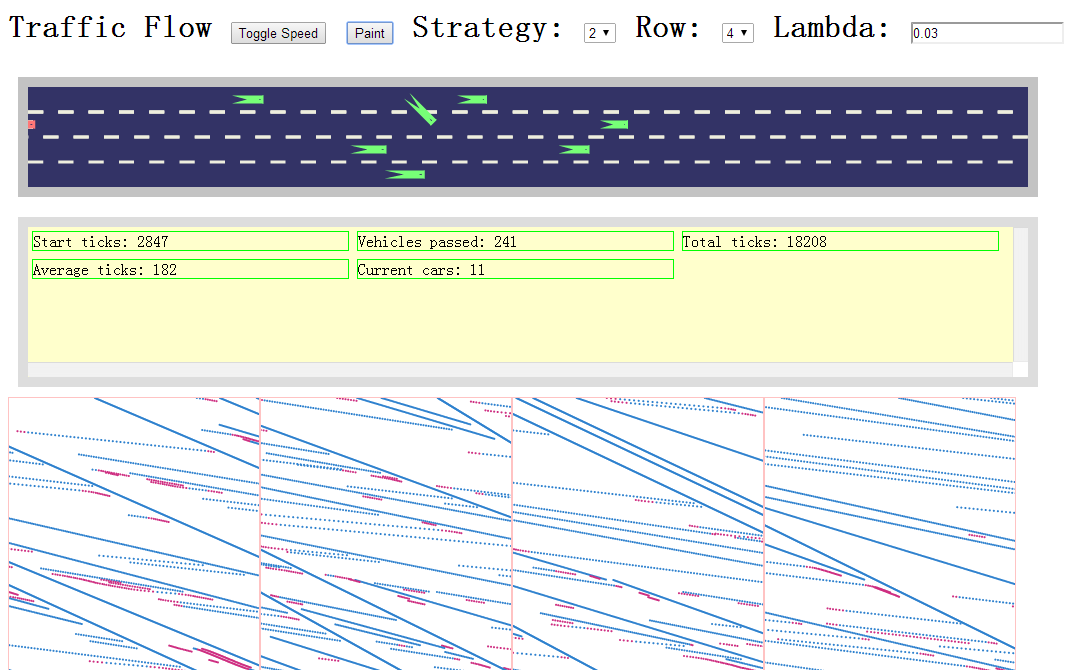
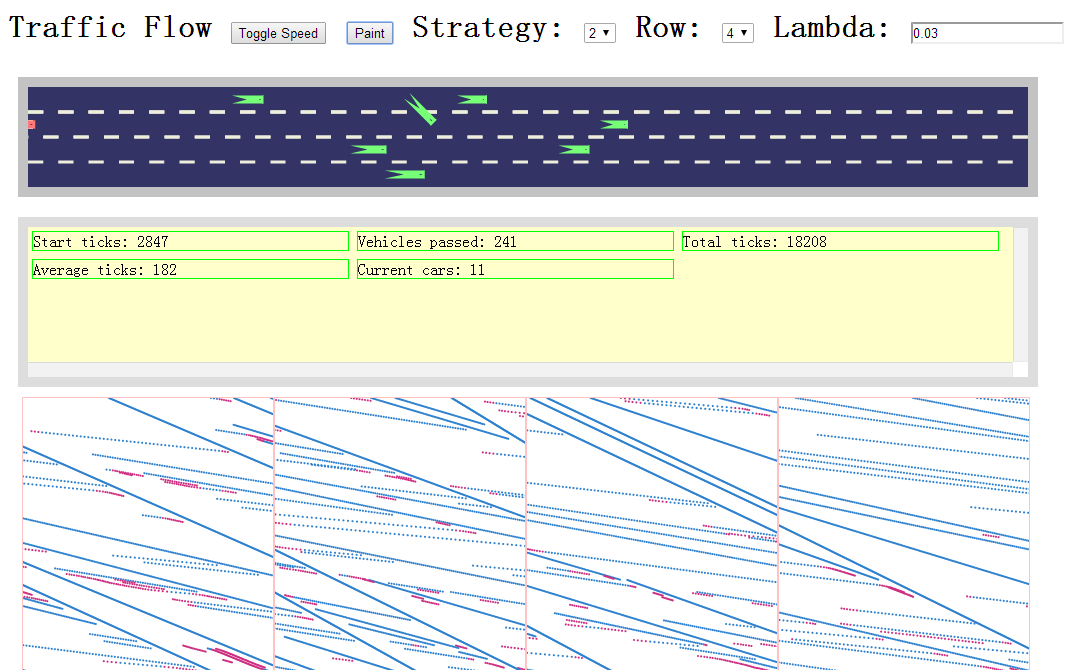
Assumption, pic location fixed, and ident

Changed region(s): [[0.0, 0.597, 0.942, 1.0]]

diff --git a/CODE/tf/strategy.js b/CODE/tf/strategy.js
@@ -70,7 +70,6 @@ function safe(a, b) {
 }
 
 function strategyNon(car, carList){
-    car.x += car.speed;
     car.speed = Math.min(car.maxSpeed, car.speed + car.maxSpeed / accelerateRatio);
 }
 
@@ -213,18 +212,18 @@ function strategyC(car, carList) {
 }
 
 function strategyD(car, carList) {
-	 var aheadtime = 120000000;
-   var backtime = 120000000;
-   if(car.x <= car.len * 1.3 + car.maxSpeed * backWarningRatio)
-   {
+    var aheadtime = 120000000;
+    var backtime = 120000000;
+    if(car.x <= car.len * 1.3 + car.maxSpeed * backWarningRatio)
+    {
 	car.speed = Math.min(car.maxSpeed, car.speed + car.maxSpeed / accelerateRatio);
 	return ;
-   }
-   
-	var flag;
-	var _flag;
-   if(car.row == 0 && car.offset == 0)
-   {
+    }
+    
+    var flag;
+    var _flag;
+    if(car.row == 0 && car.offset == 0)
+    {
 	flag = 0;
 	for(var x in carList) {
 	    if(car != carList[x]) {
@@ -236,29 +235,29 @@ function strategyD(car, carList) {
 	    }
 	}
 	for(var x in carList){
-		if(car != carList[x]){
-			var safeStatus = safe(car,carList[x]);
-			if(safeStatus < 1){
-				_flag = 1;
-				break;
-			}
+	    if(car != carList[x]){
+		var safeStatus = safe(car,carList[x]);
+		if(safeStatus < 1){
+		    _flag = 1;
+		    break;
 		}
+	    }
 	}
 	for(var x in carList){
-		if(car != carList[x]){
-			if(car.x < carList[x].x && car.maxSpeed > carList[x].maxSpeed){
-				aheadtime = Math.min(aheadtime,(backWarningRatio * Math.exp(- carList[x].speed) + carList[x].len * 1.3 + car.maxSpeed * frontWarningRatio) / car.maxSpeed);
-			}
-			else if(car.x > carList[x] && car.maxSpeed < carList[x].maxSpeed){
-				backtime = Math.min(backtime,(backWarningRatio * Math.exp(- car.speed) + car.len * 1.3 + carList[x].maxSpeed * frontWarningRatio) / carList[x].maxSpeed);
-			}
+	    if(car != carList[x]){
+		if(car.x < carList[x].x && car.maxSpeed > carList[x].maxSpeed){
+		    aheadtime = Math.min(aheadtime,(backWarningRatio * Math.exp(- carList[x].speed) + carList[x].len * 1.3 + car.maxSpeed * frontWarningRatio) / car.maxSpeed);
 		}
+		else if(car.x > carList[x] && car.maxSpeed < carList[x].maxSpeed){
+		    backtime = Math.min(backtime,(backWarningRatio * Math.exp(- car.speed) + car.len * 1.3 + carList[x].maxSpeed * frontWarningRatio) / carList[x].maxSpeed);
+		}
+	    }
 	}
 	if(aheadtime < backtime && !_flag){
-		car.speed = Math.min(car.maxSpeed, car.speed + car.maxSpeed / accelerateRatio);
+	    car.speed = Math.min(car.maxSpeed, car.speed + car.maxSpeed / accelerateRatio);
 	}
 	else if(aheadtime < backtime){
-		car.speed = Math.max(0, car.speed - car.maxSpeed / brakeRatio);
+	    car.speed = Math.max(0, car.speed - car.maxSpeed / brakeRatio);
 	}
 	else if(!flag) {
 	    car.o='right';
@@ -268,33 +267,33 @@ function strategyD(car, carList) {
 	    car.speed = Math.min(car.maxSpeed, car.speed + car.maxSpeed / accelerateRatio);
 	}
 	return ;
-   }
-   if(car.row == 1 && car.offset == 0)
-   {
+    }
+    if(car.row == 1 && car.offset == 0)
+    {
 	for(var x in carList){
-		if(car != carList[x]){
-			if(car.x < carList[x].x && car.maxSpeed > carList[x].maxSpeed){
-				aheadtime = Math.min(aheadtime,(backWarningRatio * Math.exp(- carList[x].speed) + carList[x].len * 1.3 + car.maxSpeed * frontWarningRatio) / car.maxSpeed);
-			}
-			else if(car.x > carList[x] && car.maxSpeed < carList[x].maxSpeed){
-				backtime = Math.min(backtime,(backWarningRatio * Math.exp(- car.speed) + car.len * 1.3 + carList[x].maxSpeed * frontWarningRatio) / carList[x].maxSpeed);
-			}
+	    if(car != carList[x]){
+		if(car.x < carList[x].x && car.maxSpeed > carList[x].maxSpeed){
+		    aheadtime = Math.min(aheadtime,(backWarningRatio * Math.exp(- carList[x].speed) + carList[x].len * 1.3 + car.maxSpeed * frontWarningRatio) / car.maxSpeed);
 		}
+		else if(car.x > carList[x] && car.maxSpeed < carList[x].maxSpeed){
+		    backtime = Math.min(backtime,(backWarningRatio * Math.exp(- car.speed) + car.len * 1.3 + carList[x].maxSpeed * frontWarningRatio) / carList[x].maxSpeed);
+		}
+	    }
 	}
 	if(aheadtime < backtime){
-		car.o = 'left';
-		car.offset = 1.5;
+	    car.o = 'left';
+	    car.offset = 1.5;
 	}
 	else
 	{
 	    flag = 0;
    	    for(var x in carList) {
 		if(car != carList[x]) {
-	    		var safeStatus = safe(car, carList[x]);
-	    		if(safeStatus < 1) {
-				flag = 1;		    
-				break;
-	    		}
+	    	    var safeStatus = safe(car, carList[x]);
+	    	    if(safeStatus < 1) {
+			flag = 1;		    
+			break;
+	    	    }
 		}
     	    }
     	    if(!flag) {
@@ -304,9 +303,7 @@ function strategyD(car, carList) {
 		car.speed = Math.max(0, car.speed - car.maxSpeed / brakeRatio);
     	    }
 	}
-   }
-   return ;
-    
+    }    
 }
 
 function strategyE(car, carList) {

diff --git a/body.tex b/body.tex
@@ -9,24 +9,39 @@ With the rapid development of science and technology, optimizing traffic flow ha
 Attempts to produce a mathematical theory of traffic flow date back to the 1920s, when Frank Knight first produced an analysis of traffic equilibrium, which was refined into Wardrop's first and second principles of equilibrium in 1952\cite{trafficflowhistory}. In 1950s, CA(cellular automaton) model are raised by Von Neumann, and it called much attention in 1970s. S.Wolfram first implemented this model on addressing traffic flow\cite{1983RvMP...55..601W}. Since then quantities of CA models are proposed in the realm of traffic flow theory, such as NaSch model, FI model, BML model, etc. As civilization developed, old models are more and more limited. 
 
 \subsection{Simulation Model}
-We developed a new traffic flow simulation model toolkit based on HTML5. With the function of collision detection and fundamental diagram paiting, we can easily analyze the performance of individual strategies. 
-\begin{figure}[htbp]
+We developed a new traffic flow simulation model toolkit based on HTML5. With the function of collision pre-detection and fundamental diagram paiting, we can easily analyze the performance of individual strategies. 
+\begin{figure}[H]
   \centering
-  \includegraphics[width=.8\textwidth]{./img/simulationmodel.png}
+  \includegraphics[width=.6\textwidth]{./img/simulationmodel.png}
   \caption{Strategy, max rows, and car amount can be changed instantly. In the fundamental diagram, blue points mean the vehicle is running at its fastest speed, red points means it's obstructed. }
   \label{fig:simulationmodel}
 \end{figure}
+Figure \ref{fig:simulationmodel} shows the interface simulation toolkit. And if we need faster calculation, we can toggle the animation and process with no delay. Time inside this system is based on ticks as a unit of time rather than real time, so the programme can maximize the computer capacity. 
 
-Figure \ref{fig:simulationmodel} shows the interface simulation toolkit. And if we need faster calculation, we can toggle the animation and process with no delay. Time inside this system is based on ticksas a unit of time rather than real time, so the programme can maximize the computer capacity. 
+Under this model we analyzed the formal individual strategies of vehicle drivers, estimated a trival upper bound of traffic efficiency, and tried to design an optimal self-adapting solution capable of all condition that make efficiency approach to the upper bound. 
+
+% event loop, collision pre-detection, lane changing are expandable
 
 \section{Assumptions}
-
+The argumentation in this paper is based on assumptions below. 
+\begin{itemize}
+  \item Safety has the unconditional priority to any other goals; 
+  \item Roads in this paper refer to streight equal width roads. Vehicles travls along and across equal width lanes freely; 
+  \item The amount of vehicles at each time fits Poisson distribution\cite{breiman1963}; 
+  \item The length, max speed of vehicles evenly distributed in specific intervals; 
+  \item As both speed and accelleration are related to the performance of the vehicle, we assumpt acelleration is linear to speed; 
+  \item Traveling across lanes make a car engaging two lanes for a while, and requires no other costs. 
+  \item Accidents are out of account; 
+  \item Other enviromental condition remain stable; 
+\end{itemize}
 \section{Nomenclature and Terminology}
 
 \section{Analysis}
+\subsection{The Distribution of Vehicles}
+
 \subsection{The Keep-Right-Except-To-Pass Rule}
 
-\subsection{A Trival Upper Bound of Traffic Effeciency}
+\subsection{A Trival Upper Bound of Traffic Efficiency}
 
 \subsection{The Difference Between Human Judgment and Intelligent System}
 \paragraph{Microscopic versus Marcoscopic}

diff --git a/mcmpaper.tex b/mcmpaper.tex
@@ -9,7 +9,7 @@
 %有些字体需要安装一些字体文件，注意辨别。
 %我参照 MCM论文集的字体 使用如下宏包来定制字体。
 \usepackage{palatino}
-
+\usepackage{float}
 %设置段落之间的距离，若不需要删除或者注释掉即可。
 \setlength\parskip{.5\baselineskip}
 
